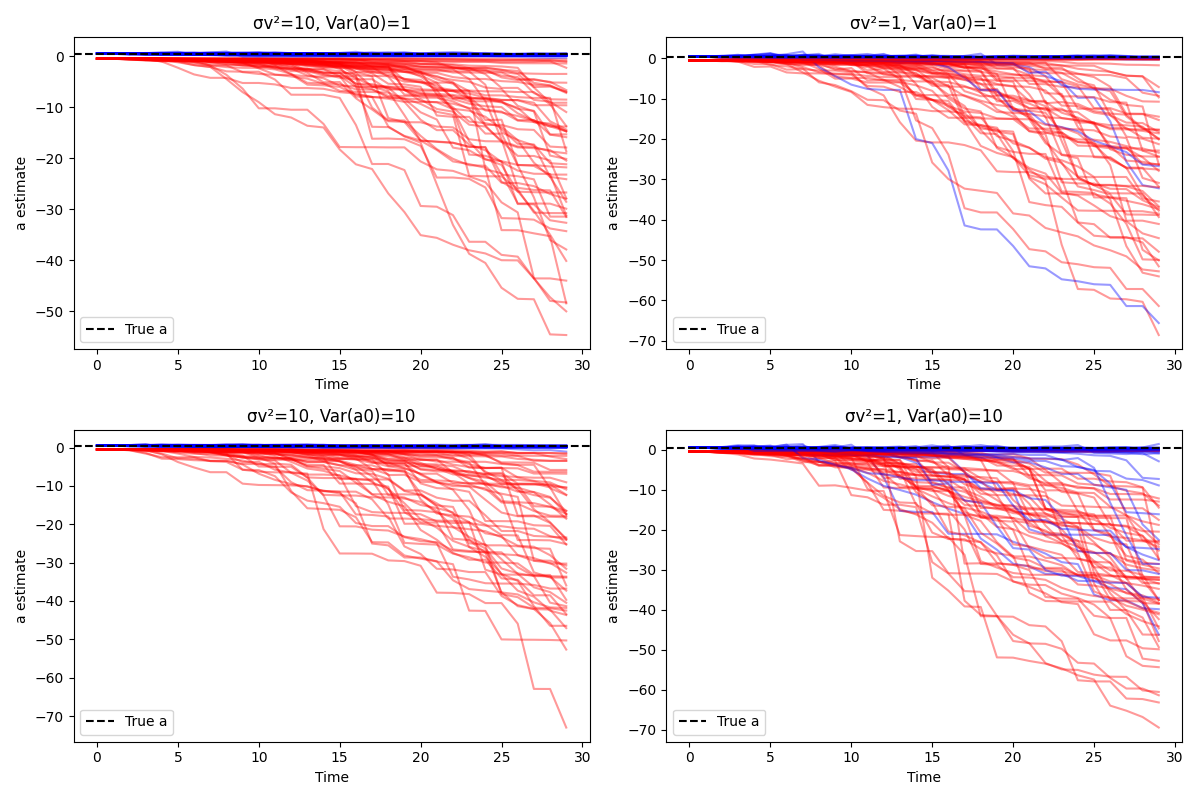
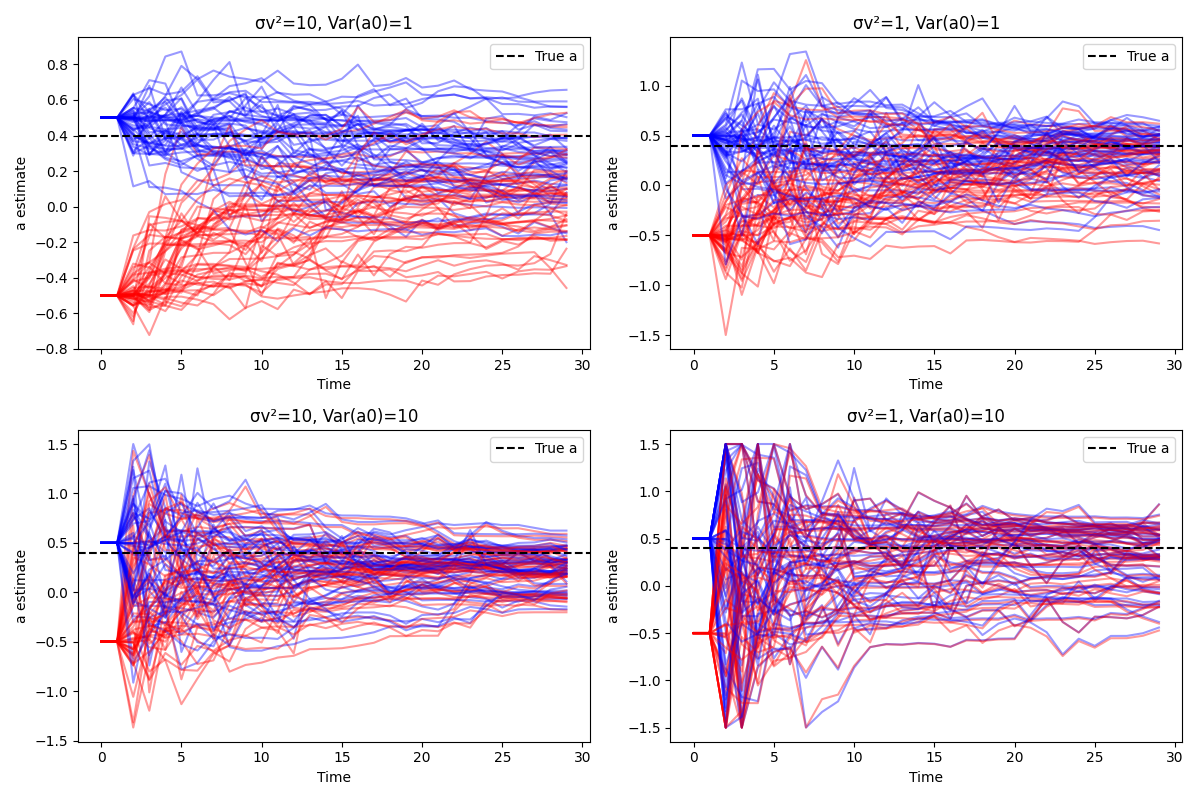
fixed part 4

diff --git a/assignment2/python/4_EKF_solved.py b/assignment2/python/4_EKF_solved.py
@@ -5,11 +5,7 @@ import matplotlib.pyplot as plt
 # Simulation function
 #----------------------------------------------------------------
 def simulate_model(T=50, a=0.4, sigma_v=1.0, sigma_e=1.0):
-    """
-    Simulate the state-space model:
-      x_{t+1} = a * x_t + v_t
-      y_t = x_t + e_t
-    """
+    """Simulate the linear state-space model."""
     x = np.zeros(T)
     y = np.zeros(T)
     for t in range(1, T):
@@ -19,63 +15,59 @@ def simulate_model(T=50, a=0.4, sigma_v=1.0, sigma_e=1.0):
 
 
 #----------------------------------------------------------------
-# EKF estimation function
+# Stabilized EKF estimation function
 #----------------------------------------------------------------
-def EKF(y, aInit=0.5, aVarInit=1, sigma_v=1, sigma_e=1):
+def EKF_stable(y, aInit=0.5, aVarInit=1.0, sigma_v=1.0, sigma_e=1.0, q_a=1e-3, clip_a=(-1.5, 1.5)):
     """
-    Extended Kalman Filter for parameter estimation of a in:
-      x_{t+1} = a * x_t + v_t
-      y_t = x_t + e_t
+    Stabilized EKF for joint estimation of state and parameter a.
+    Adds small process noise on a_t and optional clipping.
     """
     n = len(y)
-    
-    # Initialize
-    zt = np.array([0.0, aInit])                    # state vector [X, a]
-    Rv = np.array([[sigma_v**2, 0], [0, 0]])       # process noise covariance
-    Re = sigma_e                                   # measurement noise variance
-    Pt = np.array([[Re, 0], [0, aVarInit]])        # initial covariance
-    Ht = np.array([[1.0, 0.0]])                    # observation Jacobian
-    
+    zt = np.array([0.0, aInit])                            # [x, a]
+    Rv = np.array([[sigma_v**2, 0], [0, q_a]])             # small process noise on a
+    Re = sigma_e**2                                         # measurement noise variance
+    Pt = np.diag([sigma_e**2, aVarInit])                    # initial covariance
+    Ht = np.array([[1.0, 0.0]])                             # observation matrix
+
     # Storage
     Z = np.zeros((n, 2))
     Z[0, :] = zt
-    aVar = np.full(n, np.nan)
-    aVar[0] = aVarInit
 
-    # Kalman filtering
     for t in range(n-1):
-        # Jacobian of f(z)
-        Ft = np.array([[zt[1], 0], [zt[0], 1]])  # F_t-1
-        
-        # Prediction step
-        zt = np.array([zt[1]*zt[0], zt[1]])      # f(z_{t-1})
-        Pt = Ft @ Pt @ Ft.T + Rv
-        
-        # Update step
-        res = y[t] - zt[0]                       # residual
-        St = Ht @ Pt @ Ht.T + Re
-        Kt = Pt @ Ht.T @ np.linalg.inv(St)
-        zt = zt + (Kt.flatten() * res)
-        Pt = (np.eye(2) - Kt @ Ht) @ Pt
-        
+        # Jacobian
+        Ft = np.array([[zt[1], zt[0]], [0, 1]])            # df/dz
+
+        # Predict
+        z_pred = np.array([zt[1]*zt[0], zt[1]])            # f(z_t)
+        P_pred = Ft @ Pt @ Ft.T + Rv
+
+        # Update
+        y_pred = z_pred[0]
+        res = y[t] - y_pred
+        St = Ht @ P_pred @ Ht.T + Re
+        Kt = P_pred @ Ht.T / St
+        zt = z_pred + (Kt.flatten() * res)
+        Pt = (np.eye(2) - Kt @ Ht) @ P_pred
+
+        # Optional stability clip
+        zt[1] = np.clip(zt[1], clip_a[0], clip_a[1])
+
         # Store
         Z[t+1, :] = zt
-        aVar[t+1] = Pt[1, 1]
-        
-    return Z, aVar
+
+    return Z
 
 
 #----------------------------------------------------------------
-# Part 4a + 4b: Multiple simulations
+# Multiple simulations for visualization
 #----------------------------------------------------------------
 np.random.seed(0)
 nSim = 50
 T = 30
 a_true = 0.4
-sigma_v_true = 1
-sigma_e_true = 1
+sigma_v_true = 1.0
+sigma_e_true = 1.0
 
-# Four filter setups
 filter_cases = [
     {"sigma_v": np.sqrt(10), "aVarInit": 1, "label": "σv²=10, Var(a0)=1"},
     {"sigma_v": np.sqrt(1),  "aVarInit": 1, "label": "σv²=1, Var(a0)=1"},
@@ -83,24 +75,21 @@ filter_cases = [
     {"sigma_v": np.sqrt(1),  "aVarInit": 10, "label": "σv²=1, Var(a0)=10"},
 ]
 
-# Plot setup
 fig, axs = plt.subplots(2, 2, figsize=(12, 8))
 axs = axs.flatten()
 
 for i, params in enumerate(filter_cases):
     ax = axs[i]
-    
     for sim in range(nSim):
-        # Simulate data
         _, y = simulate_model(T=T, a=a_true, sigma_v=sigma_v_true, sigma_e=sigma_e_true)
-        
-        # EKF with two different initial a values
-        Z_pos, _ = EKF(y, aInit=0.5, aVarInit=params["aVarInit"], sigma_v=params["sigma_v"], sigma_e=sigma_e_true)
-        Z_neg, _ = EKF(y, aInit=-0.5, aVarInit=params["aVarInit"], sigma_v=params["sigma_v"], sigma_e=sigma_e_true)
-        
-        ax.plot(Z_pos[:,1], color='blue', alpha=0.4)
-        ax.plot(Z_neg[:,1], color='red', alpha=0.4)
-    
+
+        # Two different initial a values
+        Z_pos = EKF_stable(y, aInit=0.5, aVarInit=params["aVarInit"], sigma_v=params["sigma_v"], sigma_e=sigma_e_true)
+        Z_neg = EKF_stable(y, aInit=-0.5, aVarInit=params["aVarInit"], sigma_v=params["sigma_v"], sigma_e=sigma_e_true)
+
+        ax.plot(Z_pos[:, 1], color='blue', alpha=0.4)
+        ax.plot(Z_neg[:, 1], color='red', alpha=0.4)
+
     ax.axhline(a_true, color='black', linestyle='--', label='True a')
     ax.set_title(params["label"])
     ax.set_xlabel("Time")
@@ -109,3 +98,4 @@ for i, params in enumerate(filter_cases):
 
 plt.tight_layout()
 plt.show()
+
